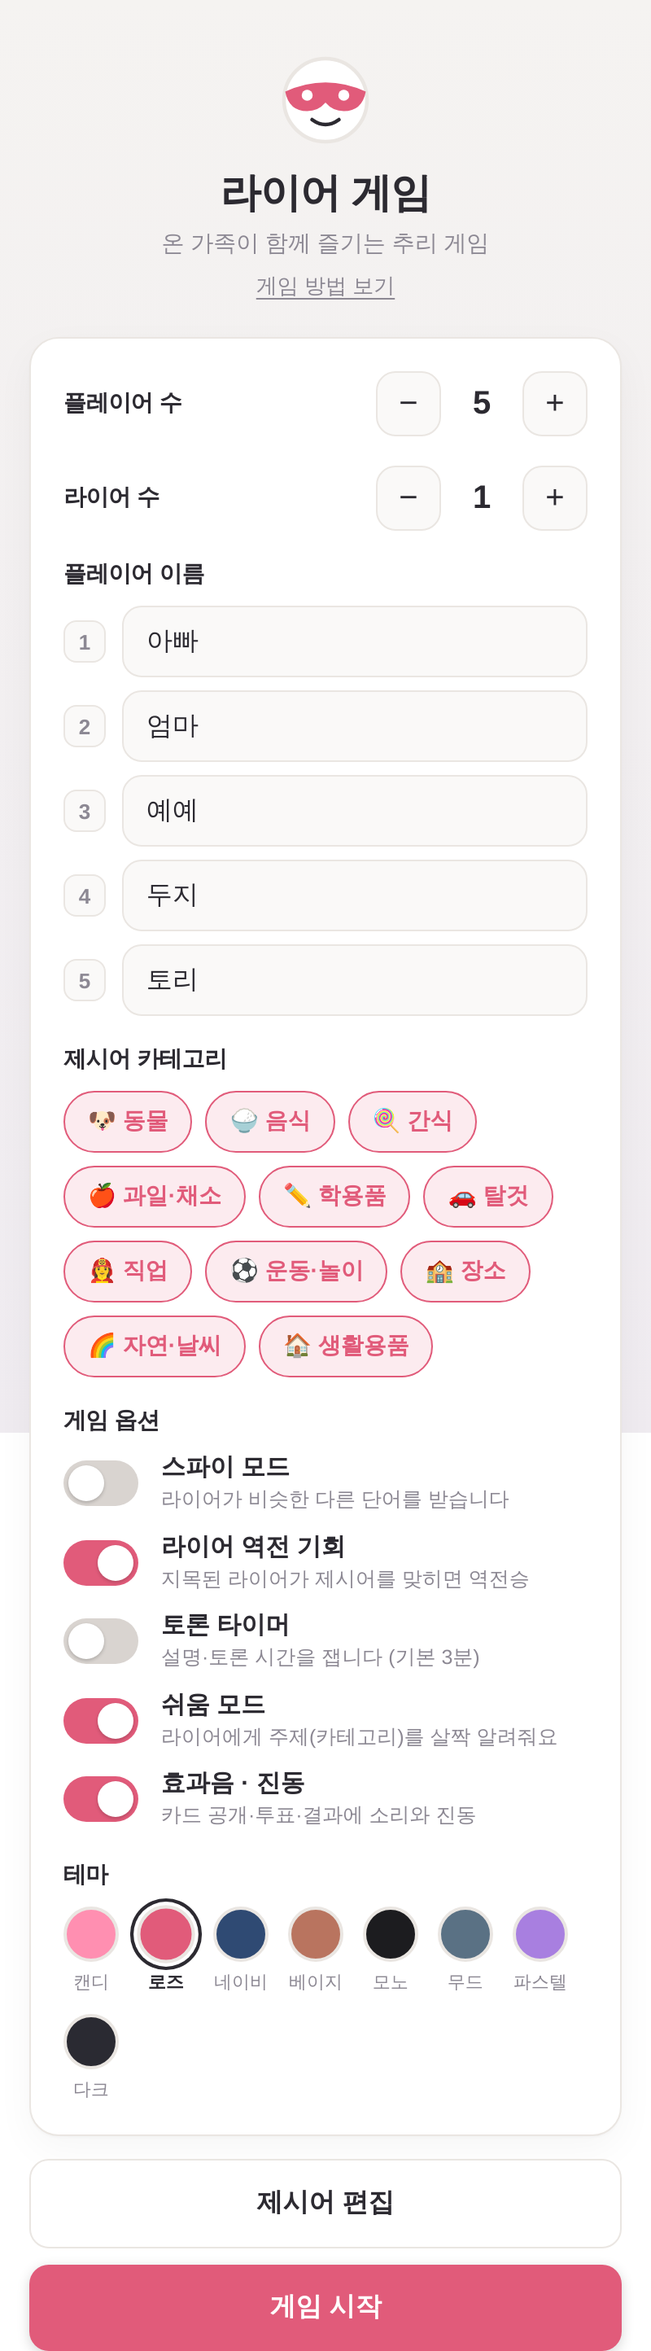
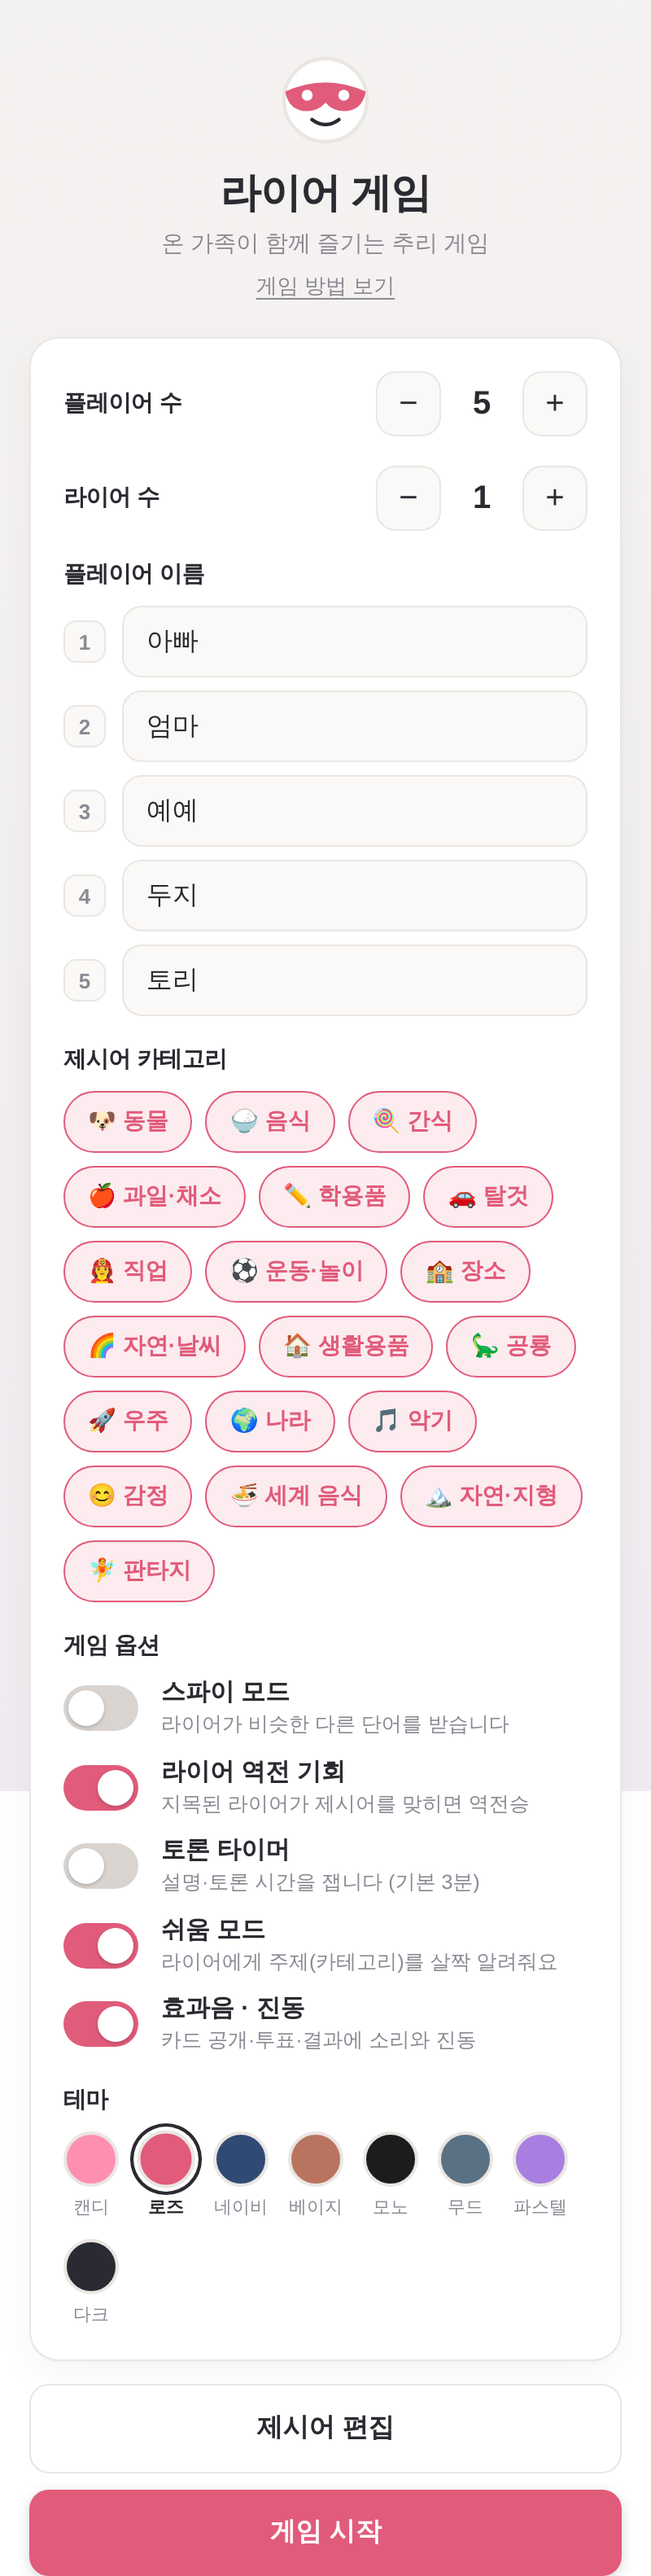
단어팩 8종 추가 (공룡·우주·나라·악기·감정·세계음식·자연지형·판타지)
- 카테고리 11→19, 단어쌍 171→279 (스파이 쌍 포함)
- 새 기본 팩은 최초 노출 시 자동 활성화(seenCats), 기존 사용자도 바로 사용
- 테스트 30/30 통과

diff --git a/words.js b/words.js
@@ -196,4 +196,129 @@ const WORD_BANK = {
     { word: "빗자루", spy: "걸레" },
     { word: "거울", spy: "빗" },
   ],
+  "🦕 공룡": [
+    { word: "티라노사우루스", spy: "기가노토사우루스" },
+    { word: "트리케라톱스", spy: "스테고사우루스" },
+    { word: "브라키오사우루스", spy: "디플로도쿠스" },
+    { word: "벨로시랩터", spy: "오비랍토르" },
+    { word: "프테라노돈", spy: "람포링쿠스" },
+    { word: "스피노사우루스", spy: "바리오닉스" },
+    { word: "안킬로사우루스", spy: "켄트로사우루스" },
+    { word: "파라사우롤로푸스", spy: "이구아노돈" },
+    { word: "모사사우루스", spy: "플레시오사우루스" },
+    { word: "카르노타우루스", spy: "알로사우루스" },
+    { word: "파키케팔로사우루스", spy: "스티라코사우루스" },
+    { word: "초식공룡", spy: "육식공룡" },
+  ],
+  "🚀 우주": [
+    { word: "지구", spy: "화성" },
+    { word: "태양", spy: "달" },
+    { word: "별", spy: "혜성" },
+    { word: "로켓", spy: "우주왕복선" },
+    { word: "우주비행사", spy: "외계인" },
+    { word: "토성", spy: "목성" },
+    { word: "은하", spy: "성운" },
+    { word: "인공위성", spy: "우주정거장" },
+    { word: "운석", spy: "소행성" },
+    { word: "블랙홀", spy: "웜홀" },
+    { word: "수성", spy: "금성" },
+    { word: "천왕성", spy: "해왕성" },
+    { word: "우주복", spy: "잠수복" },
+    { word: "망원경", spy: "쌍안경" },
+  ],
+  "🌍 나라": [
+    { word: "한국", spy: "일본" },
+    { word: "중국", spy: "몽골" },
+    { word: "미국", spy: "캐나다" },
+    { word: "프랑스", spy: "이탈리아" },
+    { word: "영국", spy: "독일" },
+    { word: "스페인", spy: "포르투갈" },
+    { word: "이집트", spy: "그리스" },
+    { word: "인도", spy: "네팔" },
+    { word: "태국", spy: "베트남" },
+    { word: "호주", spy: "뉴질랜드" },
+    { word: "브라질", spy: "아르헨티나" },
+    { word: "멕시코", spy: "페루" },
+    { word: "스위스", spy: "오스트리아" },
+    { word: "러시아", spy: "우크라이나" },
+  ],
+  "🎵 악기": [
+    { word: "피아노", spy: "오르간" },
+    { word: "기타", spy: "우쿨렐레" },
+    { word: "바이올린", spy: "첼로" },
+    { word: "드럼", spy: "장구" },
+    { word: "플루트", spy: "리코더" },
+    { word: "트럼펫", spy: "트롬본" },
+    { word: "하프", spy: "가야금" },
+    { word: "색소폰", spy: "클라리넷" },
+    { word: "실로폰", spy: "마림바" },
+    { word: "탬버린", spy: "캐스터네츠" },
+    { word: "하모니카", spy: "멜로디언" },
+    { word: "거문고", spy: "해금" },
+    { word: "트라이앵글", spy: "심벌즈" },
+  ],
+  "😊 감정": [
+    { word: "기쁨", spy: "행복" },
+    { word: "슬픔", spy: "우울" },
+    { word: "화남", spy: "짜증" },
+    { word: "놀람", spy: "당황" },
+    { word: "무서움", spy: "두려움" },
+    { word: "부끄러움", spy: "창피함" },
+    { word: "설렘", spy: "두근거림" },
+    { word: "지루함", spy: "심심함" },
+    { word: "질투", spy: "부러움" },
+    { word: "외로움", spy: "그리움" },
+    { word: "신남", spy: "흥분" },
+    { word: "뿌듯함", spy: "자랑스러움" },
+    { word: "후회", spy: "아쉬움" },
+    { word: "감동", spy: "뭉클함" },
+  ],
+  "🍜 세계 음식": [
+    { word: "피자", spy: "파스타" },
+    { word: "스시", spy: "라멘" },
+    { word: "타코", spy: "부리토" },
+    { word: "쌀국수", spy: "팟타이" },
+    { word: "딤섬", spy: "만두" },
+    { word: "카레", spy: "난" },
+    { word: "케밥", spy: "팔라펠" },
+    { word: "스테이크", spy: "바비큐" },
+    { word: "마카롱", spy: "크루아상" },
+    { word: "와플", spy: "팬케이크" },
+    { word: "빠에야", spy: "감바스" },
+    { word: "똠얌꿍", spy: "월남쌈" },
+    { word: "나초", spy: "감자튀김" },
+    { word: "젤라토", spy: "셔벗" },
+  ],
+  "🏔 자연·지형": [
+    { word: "산", spy: "언덕" },
+    { word: "바다", spy: "호수" },
+    { word: "사막", spy: "초원" },
+    { word: "폭포", spy: "계곡" },
+    { word: "화산", spy: "지진" },
+    { word: "동굴", spy: "터널" },
+    { word: "섬", spy: "반도" },
+    { word: "빙하", spy: "눈사태" },
+    { word: "정글", spy: "숲" },
+    { word: "늪", spy: "습지" },
+    { word: "절벽", spy: "바위" },
+    { word: "평야", spy: "들판" },
+    { word: "협곡", spy: "골짜기" },
+    { word: "오아시스", spy: "우물" },
+  ],
+  "🧚 판타지": [
+    { word: "공주", spy: "왕자" },
+    { word: "마법사", spy: "마녀" },
+    { word: "용", spy: "드래곤" },
+    { word: "로봇", spy: "사이보그" },
+    { word: "슈퍼히어로", spy: "악당" },
+    { word: "요정", spy: "천사" },
+    { word: "유령", spy: "좀비" },
+    { word: "산타", spy: "루돌프" },
+    { word: "인어", spy: "세이렌" },
+    { word: "유니콘", spy: "페가수스" },
+    { word: "거인", spy: "난쟁이" },
+    { word: "기사", spy: "병사" },
+    { word: "마왕", spy: "악마" },
+    { word: "해적", spy: "도적" },
+  ],
 };

diff --git a/app.js b/app.js
@@ -20,6 +20,7 @@ const settings = {
   playerNames: ["아빠", "엄마", "예예", "두지", "토리"], // 기본 닉네임
   theme: "rose", // 색 테마
   sound: true, // 효과음 + 진동
+  seenCats: [], // 사용자가 이미 본 기본 카테고리 (새 팩 자동 활성화용)
 };
 
 // 선택 가능한 테마 (가족별 색상 + 다크모드)
@@ -80,6 +81,7 @@ function loadSettings() {
     if (typeof saved.theme === "string" && THEMES.some((t) => t.id === saved.theme))
       settings.theme = saved.theme;
     if (typeof saved.sound === "boolean") settings.sound = saved.sound;
+    if (Array.isArray(saved.seenCats)) settings.seenCats = saved.seenCats.filter((c) => typeof c === "string");
     // 더 이상 존재하지 않는 카테고리는 걸러내기
     const valid = new Set(Object.keys(WORD_BANK));
     settings.categories = settings.categories.filter((c) => valid.has(c));
@@ -238,8 +240,16 @@ function initSetup() {
   applyTheme(settings.theme);
   renderThemePicker();
 
+  // 새로 추가된 기본 팩은 자동으로 켜기 (최초 노출 시 1회)
+  Object.keys(WORD_BANK).forEach((c) => {
+    if (!settings.seenCats.includes(c)) {
+      settings.seenCats.push(c);
+      if (hadSaved && !settings.categories.includes(c)) settings.categories.push(c);
+    }
+  });
   // 첫 실행이면 모든 카테고리 선택
   if (!hadSaved) settings.categories = Object.keys(getBank());
+  saveSettings();
   renderCategoryChips();
 
   // 스테퍼
